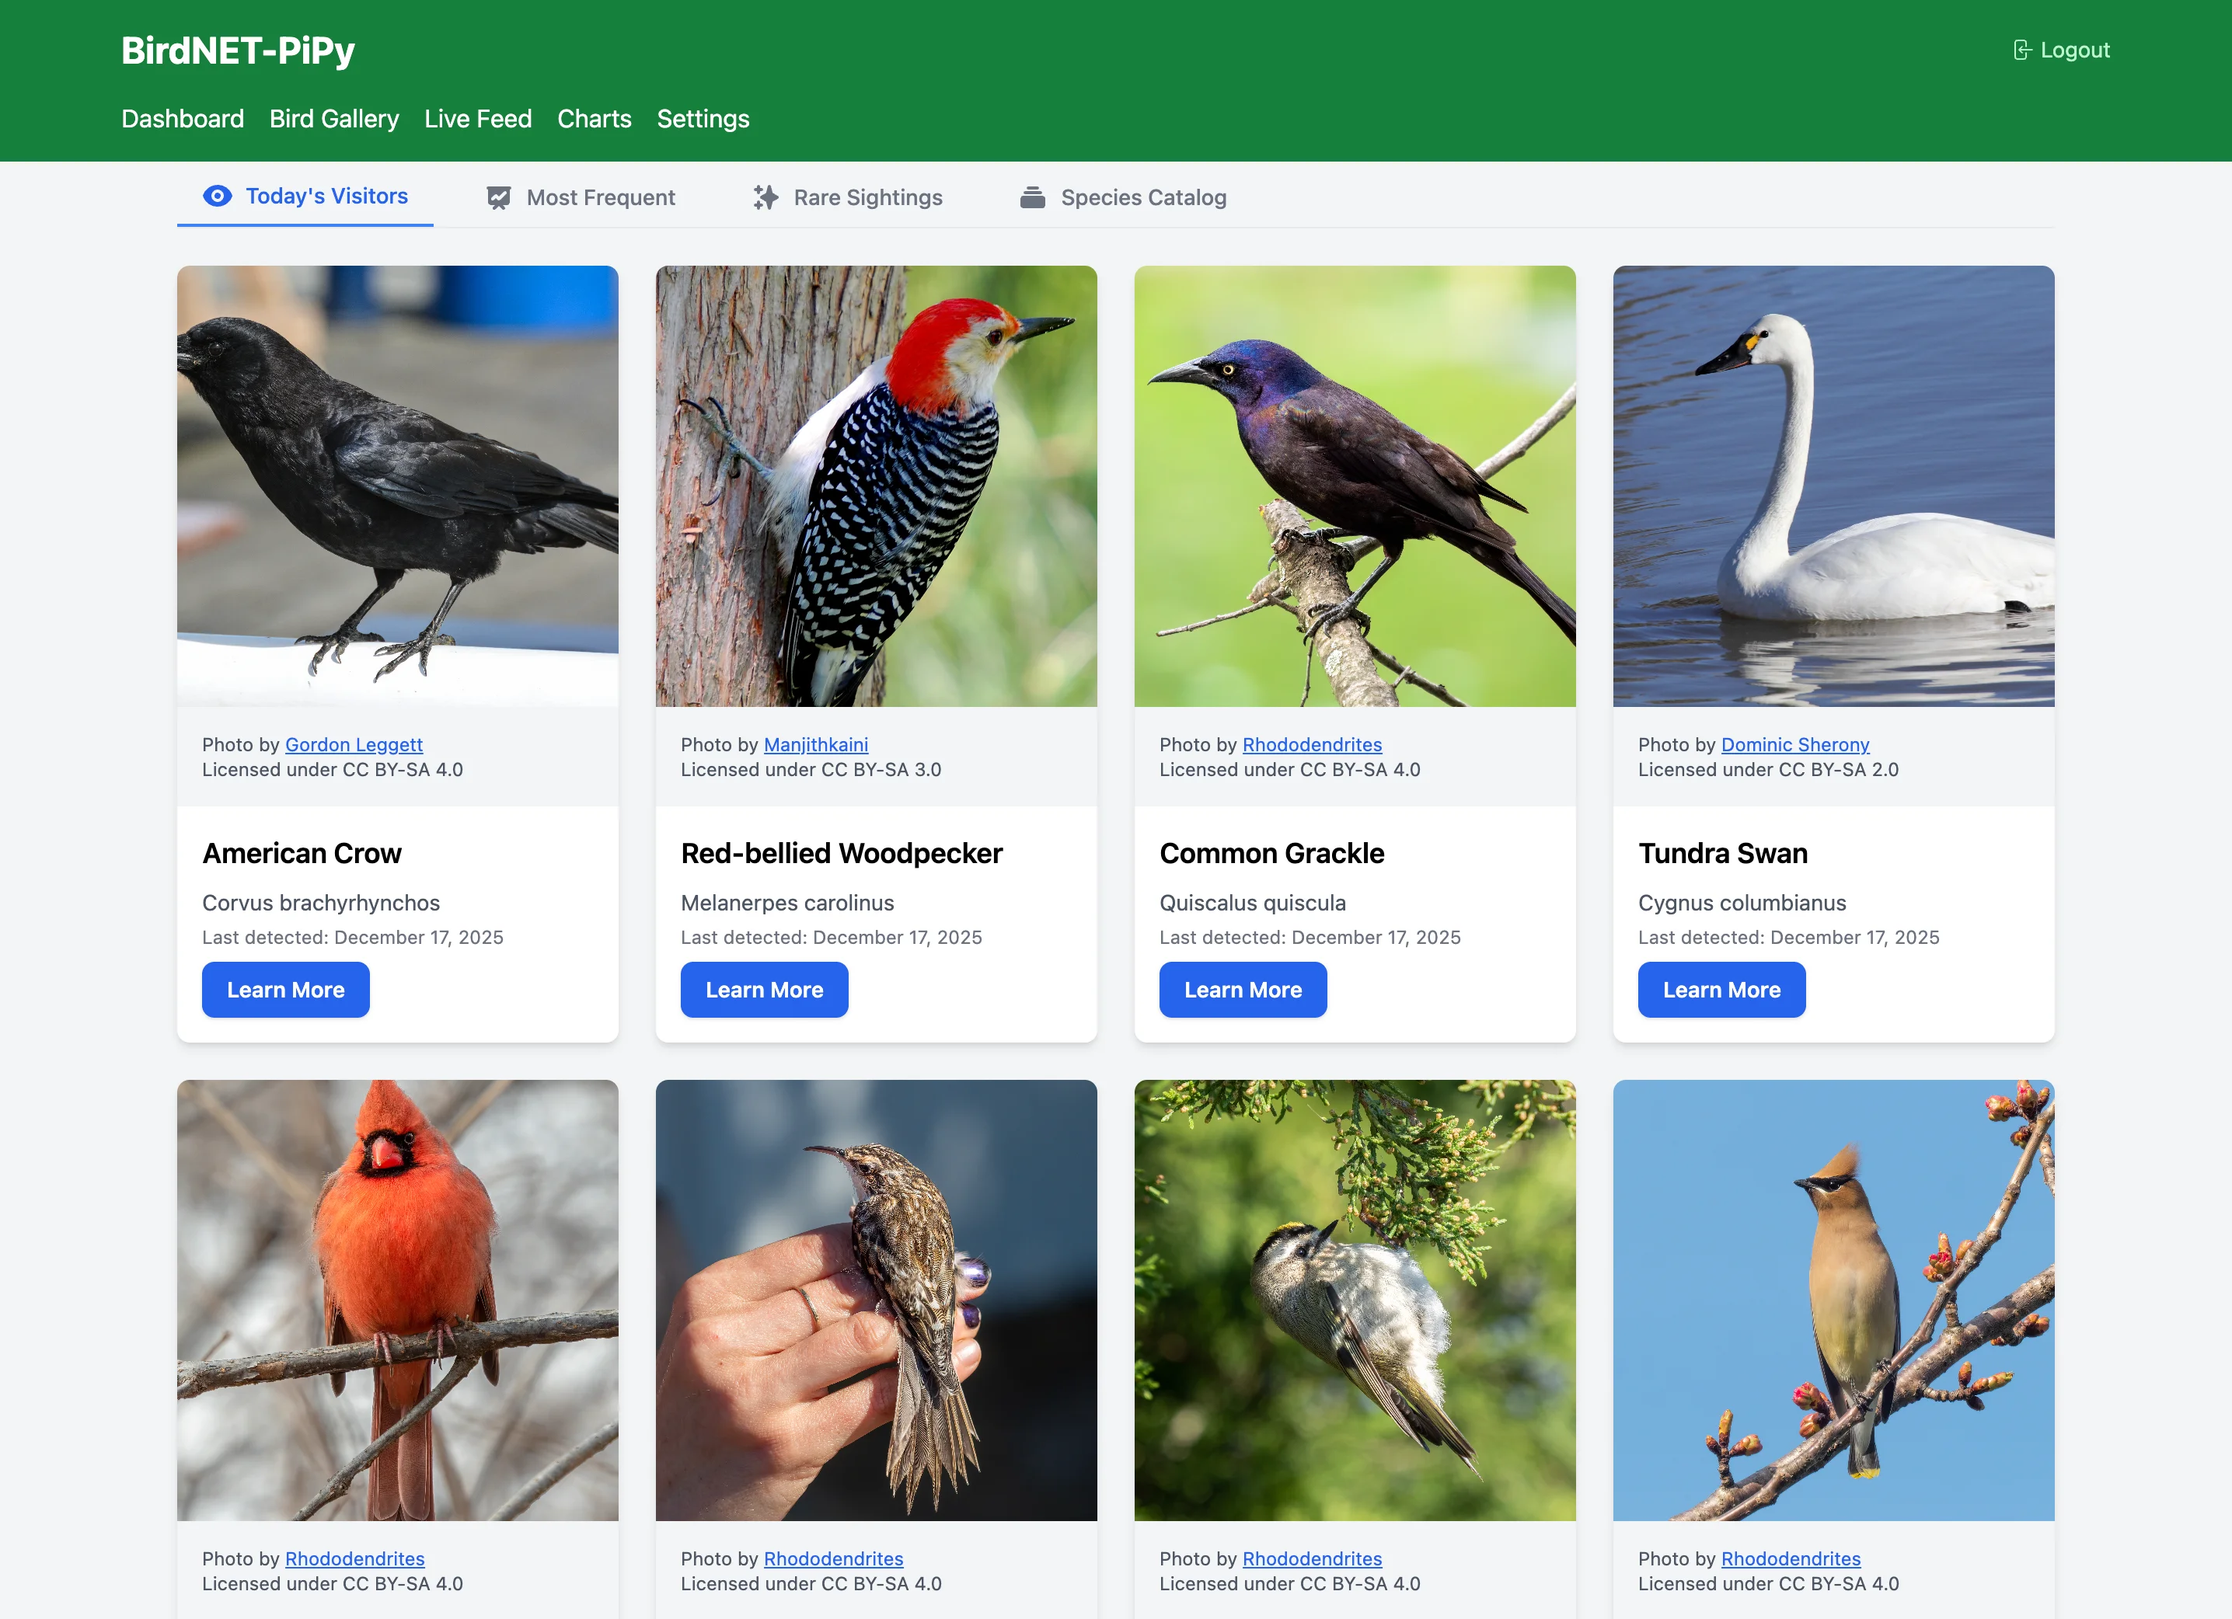
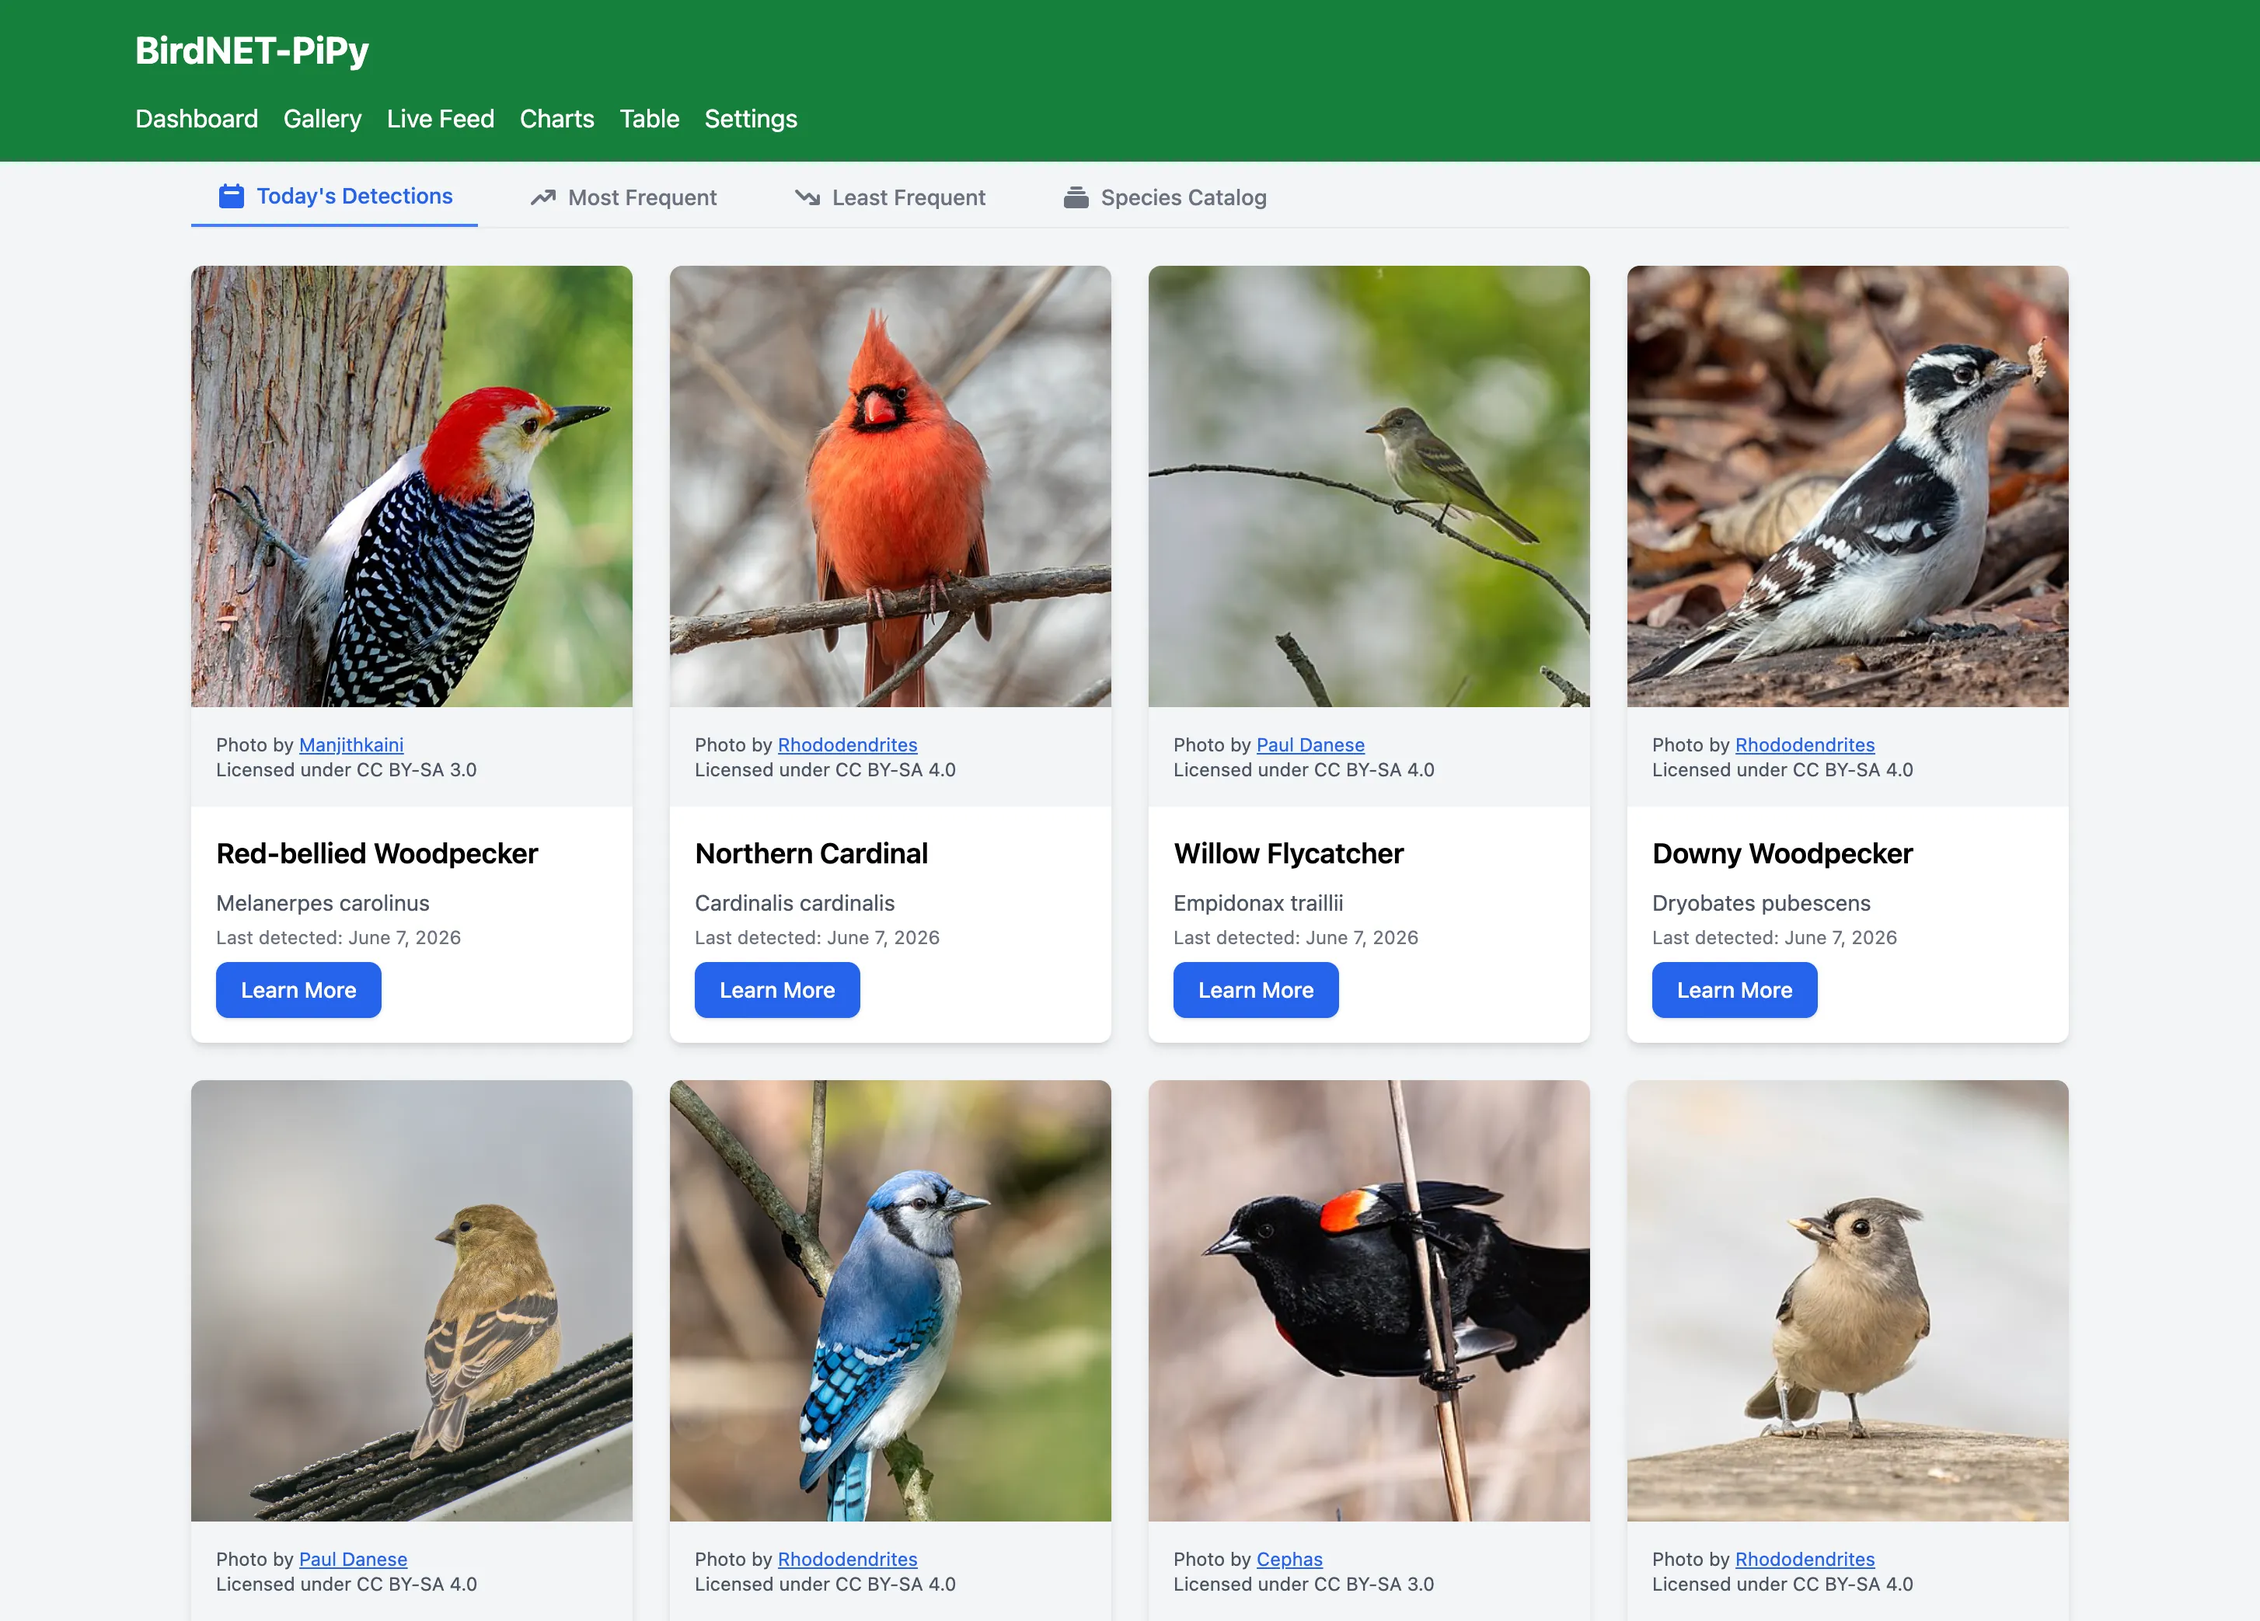
Update carousel screenshots to v0.7.4 UI, add Table slide
Replace all six slideshow images with v0.7.4 interface screenshots,
add the new Table page as a seventh slide, and rename the Gallery
label to match the updated nav wording.

diff --git a/index.html b/index.html
@@ -158,7 +158,7 @@
                                 class="rounded-lg sm:rounded-xl shadow-lg border-2 sm:border-4 border-white/20 w-full">
                         </div>
                         <div class="carousel-slide">
-                            <img src="bird_gallery.webp" alt="Bird Gallery"
+                            <img src="bird_gallery.webp" alt="Gallery"
                                 class="rounded-lg sm:rounded-xl shadow-lg border-2 sm:border-4 border-white/20 w-full">
                         </div>
                         <div class="carousel-slide">
@@ -171,6 +171,10 @@
                         </div>
                         <div class="carousel-slide">
                             <img src="charts.webp" alt="Charts"
+                                class="rounded-lg sm:rounded-xl shadow-lg border-2 sm:border-4 border-white/20 w-full">
+                        </div>
+                        <div class="carousel-slide">
+                            <img src="table.webp" alt="Table"
                                 class="rounded-lg sm:rounded-xl shadow-lg border-2 sm:border-4 border-white/20 w-full">
                         </div>
                         <div class="carousel-slide">
@@ -189,6 +193,7 @@
                             <button class="carousel-dot" data-slide="3" onclick="goToSlide(3)"></button>
                             <button class="carousel-dot" data-slide="4" onclick="goToSlide(4)"></button>
                             <button class="carousel-dot" data-slide="5" onclick="goToSlide(5)"></button>
+                            <button class="carousel-dot" data-slide="6" onclick="goToSlide(6)"></button>
                         </div>
                     </div>
                 </div>
@@ -474,9 +479,9 @@
         });
 
         // Carousel functionality
-        const slideLabels = ['Dashboard', 'Bird Gallery', 'Bird Details', 'Live Feed', 'Charts', 'Settings'];
+        const slideLabels = ['Dashboard', 'Gallery', 'Bird Details', 'Live Feed', 'Charts', 'Table', 'Settings'];
         let currentSlide = 0;
-        const totalSlides = 6;
+        const totalSlides = 7;
         const track = document.getElementById('carouselTrack');
         const dots = document.querySelectorAll('.carousel-dot');
         const labelEl = document.getElementById('slideLabel');
